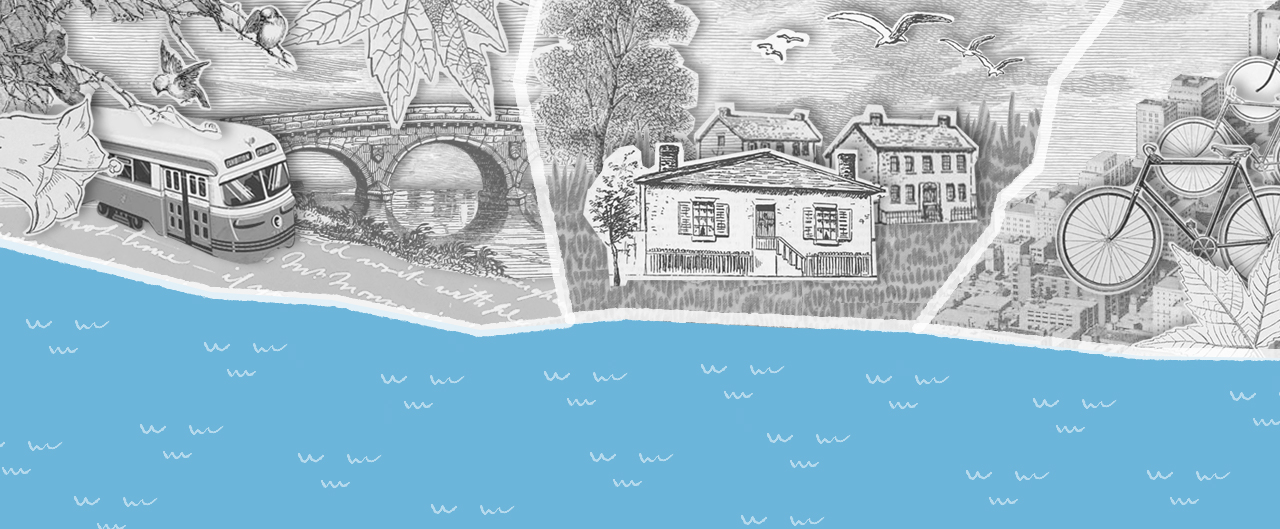
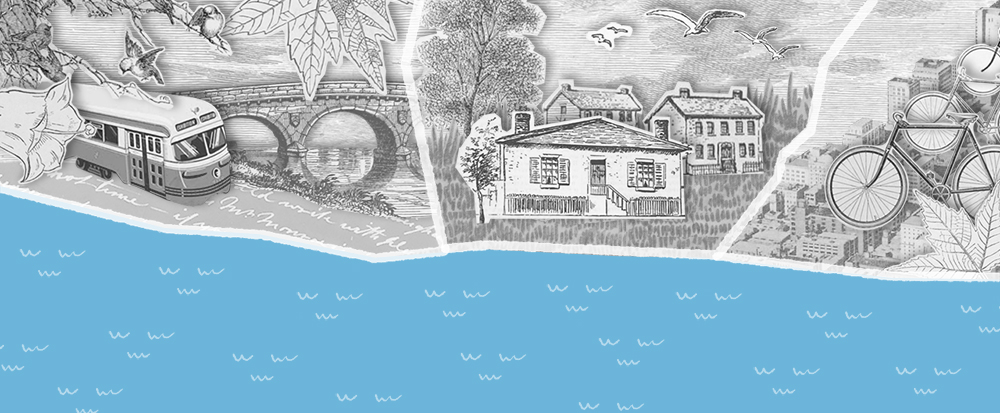
CITY-12: Added a wave separator and adjusted padding/sizes

diff --git a/css/style.css b/css/style.css
@@ -32,7 +32,7 @@ a {
 /* Body Container */
 #body {
 	margin: 0 auto;
-	max-width: 1200px;
+	max-width: 1000px;
 }
 
 /* Header */
@@ -43,7 +43,7 @@ a {
 	background-size: 400px, cover;
 	background-blend-mode: multiply;
 	display: block;
-	min-height: 418px;
+	min-height: 364px;
 	display: flex;
     flex-direction: column-reverse;
     align-items: flex-start;
@@ -59,17 +59,26 @@ a {
 	font-weight: 800;
 	text-transform: uppercase;
 	color: #fff;
-	font-size: 3.4em;
+	font-size: 3.2em;
 	background: #414141;
-	padding: 0 1.8em 0 0.2em;
+	padding: 0 1em 0 0.2em;
 	display: inline;
+}
+
+.introduction {
+    width: 100%;
+}
+
+.waves {
+    text-align: center;
+    padding: 0.8em;
 }
 
 .quote {
     font-family: 'Source Serif Pro', serif;
     font-weight: 500;
     color: #414141;
-    font-size: 1.6em;
+    font-size: 1.4em;
     width: 65%;
     margin: 0 auto;
     padding-top: 1.5em;
@@ -96,10 +105,8 @@ a {
 .quoteSmall {
 	font-size: 0.8em;
     font-family: 'Work Sans', sans-serif;
-	line-height: 1.8em;
     text-align: right;
-    padding-top: 0.2em;
-    padding-bottom: 0;
+    padding: 0;
     margin: 0;
 }
 
@@ -114,7 +121,7 @@ a {
 	font-weight: 500;
 	color: #414141;
 	text-align: center;
-	padding: 1em;
+	padding: 0 0 1em 0;
 	margin: 0 auto;
 	font-size: 2em;
 	line-height: 1.5em;
@@ -132,7 +139,7 @@ a {
 
 .contentBlock {
 	padding: 0 2.2em;
-	flex: 1 500px;
+	flex: 1 400px;
 	min-width: 400px;
 }
 
@@ -204,7 +211,9 @@ a {
 }
 
 #mailingListContainer {
-
+    width: 100%;
+    background: rgb(255, 255, 255, 0.25);
+    background-blend-mode: multiply;
 }
 
 #mailingListContainer .mailingList {
@@ -219,11 +228,11 @@ a {
 	color: #212121;
 	padding: 0 0;
 	margin: 0;
-	font-size: 1.5em;
+	font-size: 2em;
 }
 
 .mailingList p {
-	font-family: 'Source Serif Pro', sans-serif;
+	font-family: 'Work Sans', sans-serif;
 	font-weight: 300;
 	color: #212121;
 	margin: 0.8em 0;
@@ -259,8 +268,8 @@ a {
 
 #footer p {
 	color: #fff;
-	font-family: 'Source Serif Pro', sans-serif;
-	font-weight: 300;
+	font-family: 'Work Sans', sans-serif;
+	font-weight: 500;
 	font-size: 1em;
 	letter-spacing: 0.1em;
 }

diff --git a/index.html b/index.html
@@ -58,6 +58,8 @@
 					<p class="quoteSmall">Jane Jacobs, <em>The Death and Life of Great American Cities</em></p>
 				</div>
 
+				<div class="waves"><img src="images/waves.png" width="103" height="52" /></div>
+
 				<div class="subtitle">Join us in co-designing connected cities, neighbourhoods, and spaces that are more diverse and inclusive.</div>
 			</div>
 
@@ -87,19 +89,19 @@
 			<div class="ideas"><h2>Ideas in Progress</h2>
 				<ul class="timeline">
 					<li class="timelineItem">
-						<div class="timelineDate">May 8, 2018</div>
-						<div class="timelineMarker"></div>
-						<div class="timelineContent">
-							<h3><a href="ideas/for-an-inclusive-quayside">Ideas for an Inclusive Quayside</a></h3>
-							<p>Last week at their public roundtable meeting, Sidewalk Toronto announced a new partnership with OCAD University to address accessibility issues in their Quayside project. <a href="ideas/for-an-inclusive-quayside">Read more</a>.</p>
-						</div>
-					</li>
-					<li class="timelineItem">
 						<div class="timelineDate">May 10, 2018</div>
 						<div class="timelineMarker"></div>
 						<div class="timelineContent">
 							<h3><a href="ideas/co-design-draft-proposal">IDRC Inclusive Co-Design Draft Proposal</a></h3>
 							<p>We've been thinking through some ways IDRC might be able to contribute to Sidewalk Toronto project to address issues and concerns related to accessibility and inclusion. <a href="ideas/co-design-draft-proposal">Read more</a>.</p>
+						</div>
+					</li>
+					<li class="timelineItem">
+						<div class="timelineDate">May 8, 2018</div>
+						<div class="timelineMarker"></div>
+						<div class="timelineContent">
+							<h3><a href="ideas/for-an-inclusive-quayside">Ideas for an Inclusive Quayside</a></h3>
+							<p>Last week at their public roundtable meeting, Sidewalk Toronto announced a new partnership with OCAD University to address accessibility issues in their Quayside project. <a href="ideas/for-an-inclusive-quayside">Read more</a>.</p>
 						</div>
 					</li>
 				</ul>
